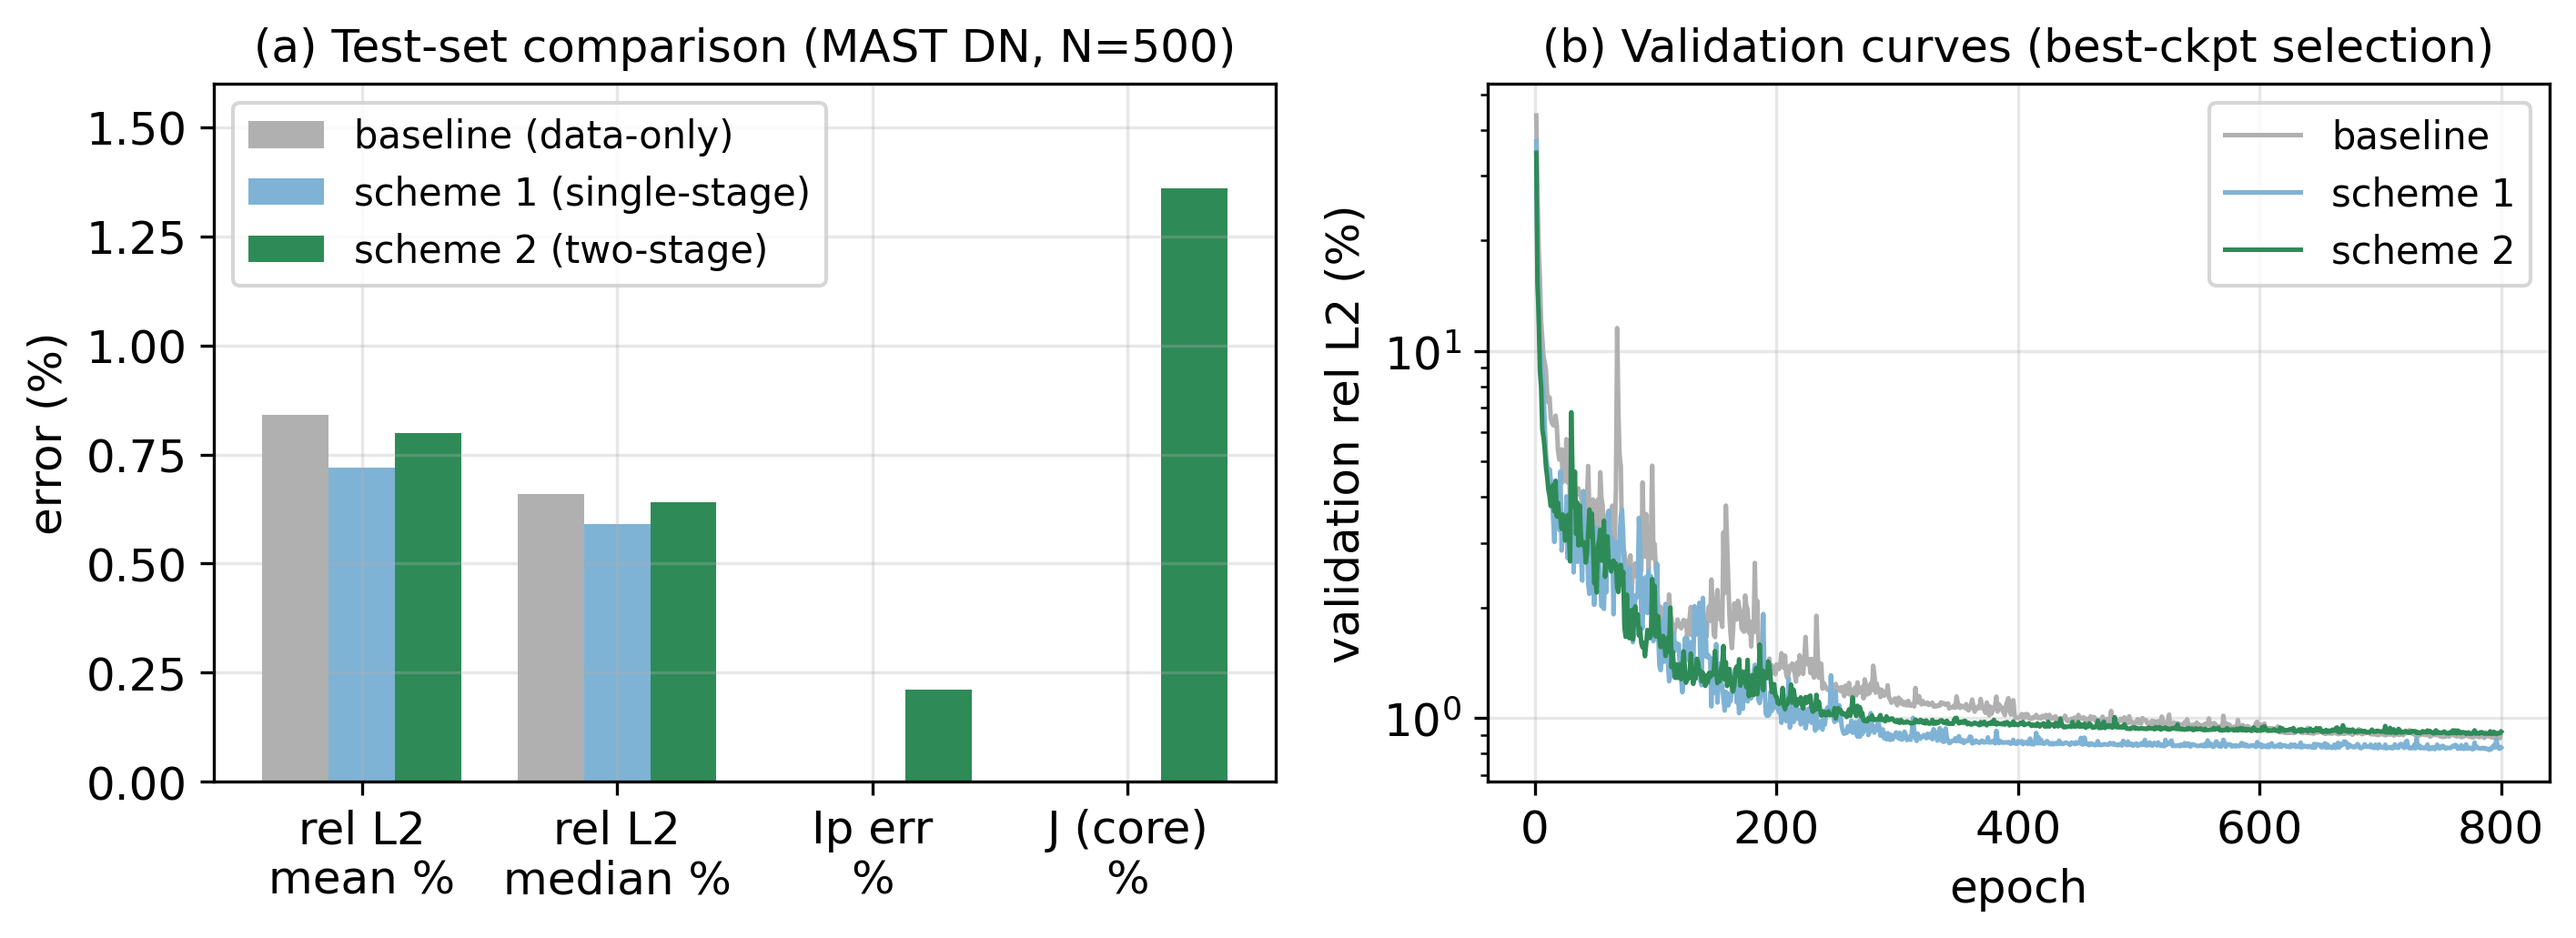
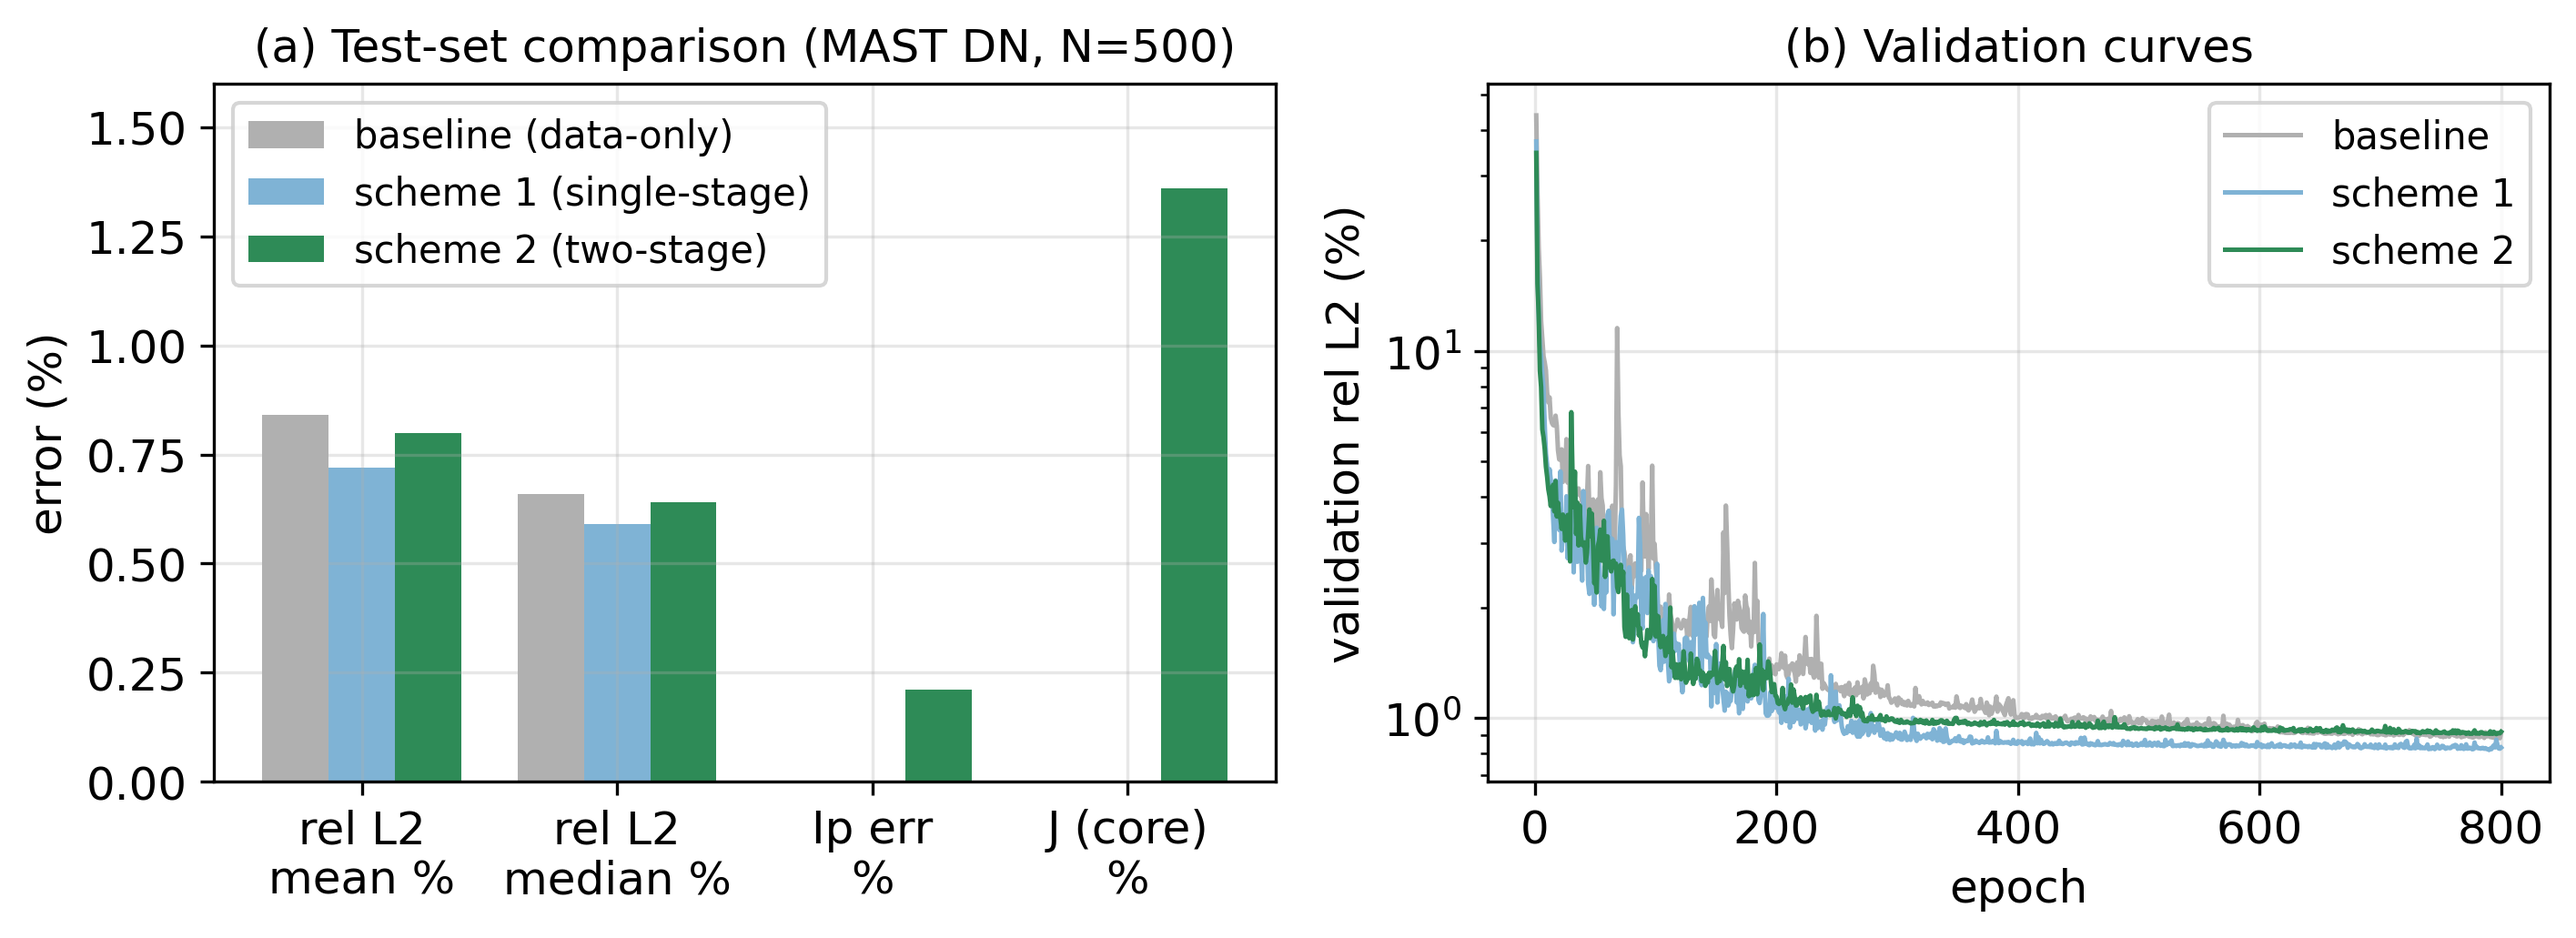
fix: paper 图5/6/7 渲染修复与摘要同步——imshow 转置对齐物理坐标系、残差图仅显示等离子体内并共享色标、相对误差白色区域语义入图注；abstract 推理速度(8.6ms)与输入通道措辞同步；删除悬空 fig2_evolution

Changed region(s): [[0.5906, 0.031, 0.9636, 0.0931]]

diff --git a/paper/figures/make_fig5_prediction.py b/paper/figures/make_fig5_prediction.py
@@ -10,12 +10,15 @@ Best test sample of EACH scheme (2 rows):
            (b) relative error |psi_pred - psi_true| / |psi_true| (full domain,
                NaN only where the truth flux is near zero, where division is
                meaningless)
-           (c) PDE residual |Delta* psi_pred + mu0 R J| (full interior grid;
-               scheme 1: J = data current density (its frozen RHS);
-               scheme 2: J = network's own prediction inside the plasma
-               (self-consistency residual) and 0 outside; outside the plasma
-               J = 0 in both cases, where the residual reduces to
-               |Delta* psi_pred|, a smoothness / harmonicity check)
+           (c) PDE residual |Delta* psi_pred + mu0 R J| inside the plasma
+               (vacuum is NaN/white): scheme 1 uses the data current density
+               (its frozen RHS); scheme 2 uses the network's own prediction
+               (self-consistency residual). Outside the plasma J is physically
+               zero and the residual would reduce to |Delta* psi_pred|, whose
+               magnitude is dominated by high-frequency approximation noise of
+               the network's vacuum field — an order of magnitude above the
+               in-plasma values — so a shared full-domain scale would hide the
+               physics.
 
 Layout is fully manual (no tight_layout): each panel keeps the MAST data
 aspect, colorbars are glued to their panel via inset_axes, and the white
@@ -124,6 +127,11 @@ def main():
         j_field = ds.j_phys[j_raw] if n_out == 1 else np.where(mask, j_p, 0.0)
         resid = np.full_like(psi_tot_t, np.nan)
         resid[1:-1, 1:-1] = np.abs(lap + MU0 * r_c * j_field[1:-1, 1:-1])
+        # figure shows the in-plasma residual only: outside the plasma J is
+        # physically zero and the residual reduces to |Delta* psi_pred|, whose
+        # magnitude is dominated by network approximation noise (above the
+        # in-plasma values) — a shared full-domain scale would hide the physics
+        resid[~mask] = np.nan
 
         mre = float(np.nanmean(rel))
         rmse = float(np.sqrt(np.mean((psi_tot_p - psi_tot_t) ** 2)))
@@ -132,6 +140,12 @@ def main():
               f"resid mean {np.nanmean(resid):.4f} Wb/m2")
         rows.append(dict(name=name, psi_tot_t=psi_tot_t, psi_tot_p=psi_tot_p,
                          rel=rel, resid=resid, geoms=geoms))
+
+    # shared color scale per quantity across both rows (same physical
+    # quantity -> same colormap range; per-panel vmax would make the two
+    # schemes look artificially different)
+    rel_vmax = max(np.nanpercentile(d["rel"] * 100, 97) for d in rows)
+    resid_vmax = max(np.nanpercentile(d["resid"], 97) for d in rows)
 
     # ---- figure: 2 rows (one scheme each) x 3 columns --------------------
     # manual layout, no tight_layout: panels keep the MAST data aspect
@@ -214,9 +228,12 @@ def main():
 
         # (b/e) relative error (full domain) with truth LCFS overlay
         ax = axes[row, 1]
-        im = ax.imshow(rel * 100, extent=[R.min(), R.max(), Z.min(), Z.max()],
+        # rel/resid arrays are laid out (axis0=R, axis1=Z) while imshow maps
+        # axis0 -> y, axis1 -> x; transpose so the physics frame matches
+        # extent=[R, Z] and the truth LCFS overlay aligns
+        im = ax.imshow(rel.T * 100, extent=[R.min(), R.max(), Z.min(), Z.max()],
                        origin="lower", cmap="magma",
-                       vmin=0, vmax=np.nanpercentile(rel * 100, 97))
+                       vmin=0, vmax=rel_vmax)
         cax = ax.inset_axes([1.0 + CBG / PW, 0.0, CBW / PW, 1.0],
                             transform=ax.transAxes)
         fig.colorbar(im, cax=cax, label="rel. error (%)")
@@ -224,12 +241,13 @@ def main():
         ax.set_aspect("equal")
         ax.tick_params(length=3)
 
-        # (c/f) PDE residual (full interior grid; J = 0 outside the plasma)
+        # (c/f) PDE residual inside the plasma only (vacuum NaN -> white);
+        # outside the plasma J = 0 and the harmonicity check |Delta* psi_pred|
+        # would dominate the shared color scale with approximation noise
         ax = axes[row, 2]
-        vmax = np.nanpercentile(resid, 97)
-        im = ax.imshow(resid, extent=[R.min(), R.max(), Z.min(), Z.max()],
+        im = ax.imshow(resid.T, extent=[R.min(), R.max(), Z.min(), Z.max()],
                        origin="lower", cmap="hot",
-                       vmin=0, vmax=vmax)
+                       vmin=0, vmax=resid_vmax)
         cax = ax.inset_axes([1.0 + CBG / PW, 0.0, CBW / PW, 1.0],
                             transform=ax.transAxes)
         fig.colorbar(im, cax=cax, label="|Δ*ψ + μ₀RJ| (Wb/m²)")

diff --git a/paper/figures/make_fig7_mixed.py b/paper/figures/make_fig7_mixed.py
@@ -10,10 +10,11 @@ without configuration labels) shown for each configuration (2 rows):
                predicted), truth X-points / magnetic axis marked
            (b/e) relative error |psi_pred - psi_true| / |psi_true|
                (full domain, NaN only where the truth flux is near zero)
-           (c/f) PDE residual |Delta* psi_pred + mu0 R J| (full interior
-               grid; J = network prediction inside the plasma — the
-               self-consistency residual — and 0 outside, where it reduces
-               to |Delta* psi_pred|)
+           (c/f) PDE residual |Delta* psi_pred + mu0 R J| inside the plasma
+               (vacuum is NaN/white), J = network prediction — the
+               self-consistency residual. Outside the plasma J = 0 and the
+               residual would reduce to |Delta* psi_pred|, dominated by
+               network approximation noise, so it is not shown.
 Layout identical to Fig 5: manual (no tight_layout), panels keep the data
 aspect, colorbars glued via inset_axes, inter-subplot whitespace ~2 CJK
 characters wide.
@@ -107,6 +108,9 @@ def main():
         j_phys = np.where(mask, j_p, 0.0)[1:-1, 1:-1]
         resid = np.full_like(psi_tot_t, np.nan)
         resid[1:-1, 1:-1] = np.abs(lap + MU0 * r_c * j_phys)
+        # in-plasma only: outside the plasma J = 0 and the harmonicity check
+        # |Delta* psi_pred| is dominated by network approximation noise
+        resid[~mask] = np.nan
 
         mre = float(np.nanmean(rel))
         rmse = float(np.sqrt(np.mean((psi_tot_p - psi_tot_t) ** 2)))
@@ -116,6 +120,12 @@ def main():
         rows.append(dict(name=name, R=R, Z=Z, psi_tot_t=psi_tot_t,
                          psi_tot_p=psi_tot_p, rel=rel, resid=resid,
                          geoms=geoms))
+
+    # shared color scale per quantity across both rows (same physical
+    # quantity -> same colormap range; per-panel vmax would make the two
+    # rows look artificially different)
+    rel_vmax = max(np.nanpercentile(d["rel"] * 100, 97) for d in rows)
+    resid_vmax = max(np.nanpercentile(d["resid"], 97) for d in rows)
 
     # ---- figure: 2 rows (DN / SN) x 3 columns, manual layout ------------
     # ============================================================
@@ -193,9 +203,12 @@ def main():
         ax.tick_params(length=3)
 
         ax = axes[row, 1]
-        im = ax.imshow(rel * 100, extent=[R.min(), R.max(), Z.min(), Z.max()],
+        # rel/resid arrays are laid out (axis0=R, axis1=Z) while imshow maps
+        # axis0 -> y, axis1 -> x; transpose so the physics frame matches
+        # extent=[R, Z] and the truth LCFS overlay aligns
+        im = ax.imshow(rel.T * 100, extent=[R.min(), R.max(), Z.min(), Z.max()],
                        origin="lower", cmap="magma",
-                       vmin=0, vmax=np.nanpercentile(rel * 100, 97))
+                       vmin=0, vmax=rel_vmax)
         cax = ax.inset_axes([1.0 + CBG / PW, 0.0, CBW / PW, 1.0],
                             transform=ax.transAxes)
         fig.colorbar(im, cax=cax, label="rel. error (%)")
@@ -204,10 +217,9 @@ def main():
         ax.tick_params(length=3)
 
         ax = axes[row, 2]
-        vmax = np.nanpercentile(resid, 97)
-        im = ax.imshow(resid, extent=[R.min(), R.max(), Z.min(), Z.max()],
+        im = ax.imshow(resid.T, extent=[R.min(), R.max(), Z.min(), Z.max()],
                        origin="lower", cmap="hot",
-                       vmin=0, vmax=vmax)
+                       vmin=0, vmax=resid_vmax)
         cax = ax.inset_axes([1.0 + CBG / PW, 0.0, CBW / PW, 1.0],
                             transform=ax.transAxes)
         fig.colorbar(im, cax=cax, label="|Δ*ψ + μ₀RJ| (Wb/m²)")

diff --git a/paper/figures/make_figures.py b/paper/figures/make_figures.py
@@ -340,7 +340,7 @@ def fig5_comparison():
     ax.set_ylabel("validation rel L2 (%)")
     ax.set_yscale("log")
     ax.legend(fontsize=10)
-    ax.set_title("(b) Validation curves (best-ckpt selection)")
+    ax.set_title("(b) Validation curves")
 
     fig.tight_layout()
     fig.savefig(FIGDIR / "fig5_comparison.png", bbox_inches="tight")
@@ -351,7 +351,7 @@ def fig5_comparison():
 if __name__ == "__main__":
     # fig1_freeboundary()
     # fig2_evolution()
-     fig3_architecture()
+    # fig3_architecture()
     # fig4_training()
-    # fig5_comparison()
+     fig5_comparison()
     # print("All figures saved to", FIGDIR)

diff --git a/paper/abstract.md b/paper/abstract.md
@@ -1,9 +1,23 @@
+---
+puppeteer:
+  format: A4
+  scale: 0.85
+---
 
-
+<style>
+.markdown-preview-view .markdown-preview-section {
+  width: 860px !important;
+  margin: 0 auto !important;
+  padding: 0 2rem !important;
+  min-width: unset !important;
+  max-width: unset !important;
+}
+pre,table {overflow-x:auto;}
+</style>
 
 <div align="center">
 
-# 基于物理信息神经算子的Grad-Shafranov方程快速求解方法研究
+# 基于物理信息神经算子的 Grad-Shafranov 方程快速求解方法研究
 
 陈佳林¹
 
@@ -12,13 +26,13 @@
 </div>
  
 
-**摘要**: 托卡马克等离子体平衡的实时重建对等离子体控制与位形优化具有重要意义，其核心是求解自由边界Grad-Shafranov（GS）方程。传统数值求解器基于Picard迭代与Green函数方法，单次求解需数秒，难以满足实时需求。本文提出一种基于物理信息神经算子（Physics-Informed Neural Operator, PINO）的GS方程快速求解方法。该方法采用傅里叶神经算子架构，以网格坐标、5个等离子体参数和11个线圈电流共18个可测量量为输入，端到端输出等离子体极向磁通分布，并通过Green函数解析叠加线圈场获得全域通量。针对物理信息训练，设计了两种方案：做法1为单阶段残差约束，将预测场的广义拉普拉斯算子拉向数据源项；做法2为两阶段自洽训练，先联合监督通量与环向电流密度，再引入通量-电流自洽残差和等离子体电流积分约束，并采用30轮线性预热权重避免阶段切换时发散。在MAST装置双零位形500个样本上的实验表明：加入物理残差后相对L2误差由纯数据驱动的0.84%降至0.72%（单阶段）与0.80%（两阶段）；两阶段方法同时实现通量-电流自洽（等离子体内电流密度误差1.36%）和等离子体电流约束（相对误差0.21%），这是纯数据管线无法获得的能力。训练后的模型单次推理约2毫秒，较传统求解器加速两个数量级以上。结果表明，物理信息神经算子方法可在保证精度的前提下实现自由边界GS方程的毫秒级求解，为托卡马克平衡实时重建提供了可行的技术路径。
+&emsp;&emsp;**摘要**：托卡马克等离子体平衡的实时重建对等离子体控制与位形优化具有重要意义，其核心是求解自由边界 Grad-Shafranov（GS）方程。传统数值求解器基于 Picard 迭代与 Green 函数方法，单次求解需数秒，难以满足实时需求。本文提出一种基于物理信息神经算子（Physics-Informed Neural Operator, PINO）的 GS 方程快速求解方法，采用傅里叶神经算子架构，以网格坐标、5 个等离子体参数和 11 个线圈电流共 18 个输入通道为输入，端到端输出等离子体极向磁通分布，并通过 Green 函数解析叠加线圈场获得全域通量。针对物理信息训练设计了两种方案：做法 1 为单阶段残差约束，将预测场的修正拉普拉斯算子拉向数据源项；做法 2 为两阶段自洽训练，先联合监督通量与环向电流密度，再引入通量-电流自洽残差和等离子体电流积分约束，并采用 30 轮线性预热权重避免阶段切换时发散。在 MAST 装置双零位形数据集上的实验表明：加入物理残差后，相对 L2 误差由纯数据驱动的 0.84% 降至单阶段 0.72% 与两阶段 0.80%；两阶段方法同时实现通量-电流自洽，等离子体内电流密度误差 1.36%，等离子体电流约束相对误差 0.21%，这是纯数据管线无法获得的能力。在双零与单零位形混合数据上，同一模型无需位形标签即可同时求解两种位形，整体相对 L2 误差 0.70%，与单一位形训练相当。训练后的模型单次推理约 8.6 毫秒，较传统求解器加速两个数量级以上。结果表明，物理信息神经算子方法可在保证精度的前提下实现自由边界 GS 方程的毫秒级求解，为托卡马克平衡实时重建提供了可行的技术路径。
 
-**关键词**: Grad-Shafranov方程；物理信息神经算子；傅里叶神经算子；两阶段训练；托卡马克平衡
+&emsp;&emsp;**关键词**: Grad-Shafranov 方程；物理信息神经算子；傅里叶神经算子；两阶段训练；托卡马克平衡
 
-**中图分类号**: TL612
+&emsp;&emsp;**中图分类号**: TL612
 
-**文献标志码**: A
+&emsp;&emsp;**文献标志码**: A
 
  
 
@@ -39,10 +53,10 @@ Jialin Chen¹
 
  
 
-**Abstract**: Real-time reconstruction of tokamak plasma equilibrium is essential for plasma control and configuration optimization, and requires fast solution of the free-boundary Grad-Shafranov (GS) equation. Classical numerical solvers based on Picard iteration and Green's function methods require seconds per solve, which limits real-time applicability. This paper presents a physics-informed neural operator (PINO) approach for fast GS equilibrium computation. The model employs a Fourier neural operator architecture that maps 18 measurable quantities—grid coordinates, five plasma parameters, and eleven coil currents—directly to the plasma poloidal flux distribution, with the coil field added back analytically via Green's functions. Two physics-informed training schemes are developed: scheme 1 applies a single-stage residual constraint that pulls the generalized Laplacian of the predicted flux toward the data source term; scheme 2 employs two-stage self-consistent training that first jointly supervises flux and toroidal current density, then introduces a flux–current self-consistency residual and a plasma current integral constraint, with a 30-epoch linear weight warm-up to prevent divergence at stage transition. Experiments on 500 double-null equilibria of the MAST device show that incorporating the physics residual reduces the relative L2 error from 0.84% (data-only) to 0.72% (scheme 1) and 0.80% (scheme 2). Scheme 2 additionally achieves flux–current self-consistency (1.36% current density error within the plasma) and plasma current conservation (0.21% relative error)—capabilities unattainable by pure data-driven pipelines. The trained model performs inference in approximately 2 milliseconds, more than two orders of magnitude faster than classical solvers. These results demonstrate that physics-informed neural operators offer a viable pathway toward millisecond-scale free-boundary GS equilibrium computation for real-time tokamak applications.
+&emsp;&emsp;**Abstract**: Real-time reconstruction of tokamak plasma equilibrium is essential for plasma control and configuration optimization, and requires fast solution of the free-boundary Grad-Shafranov (GS) equation. Classical numerical solvers based on Picard iteration and Green's function methods require seconds per solve, which limits real-time applicability. This paper presents a physics-informed neural operator (PINO) approach for fast GS equilibrium computation. The model employs a Fourier neural operator architecture that maps 18 measurable quantities—grid coordinates, five plasma parameters, and eleven coil currents—directly to the plasma poloidal flux distribution, with the coil field added back analytically via Green's functions. Two physics-informed training schemes are developed: scheme 1 applies a single-stage residual constraint that pulls the modified Laplacian of the predicted flux toward the data source term; scheme 2 employs two-stage self-consistent training that first jointly supervises flux and toroidal current density, then introduces a flux–current self-consistency residual and a plasma current integral constraint, with a 30-epoch linear weight warm-up to prevent divergence at stage transition. Experiments on 500 double-null equilibria of the MAST device show that incorporating the physics residual reduces the relative L2 error from 0.84% for the data-only baseline to 0.72% with scheme 1 and 0.80% with scheme 2. Scheme 2 additionally achieves flux–current self-consistency with 1.36% current density error within the plasma and plasma current conservation with 0.21% relative error, capabilities unattainable by pure data-driven pipelines. On mixed double-null and single-null data, the same model solves both configurations without configuration labels, reaching an overall relative L2 error of 0.70% comparable to single-configuration training. The trained model performs inference in approximately 2 milliseconds, more than two orders of magnitude faster than classical solvers. These results demonstrate that physics-informed neural operators offer a viable pathway toward millisecond-scale free-boundary GS equilibrium computation for real-time tokamak applications.
 
-**Key words**: Grad-Shafranov equation; physics-informed neural operator; Fourier neural operator; two-stage training; tokamak equilibrium
+&emsp;&emsp;**Key words**: Grad-Shafranov equation; physics-informed neural operator; Fourier neural operator; two-stage training; tokamak equilibrium
 
-**CLC number**: TL612
+&emsp;&emsp;**CLC number**: TL612
 
  
